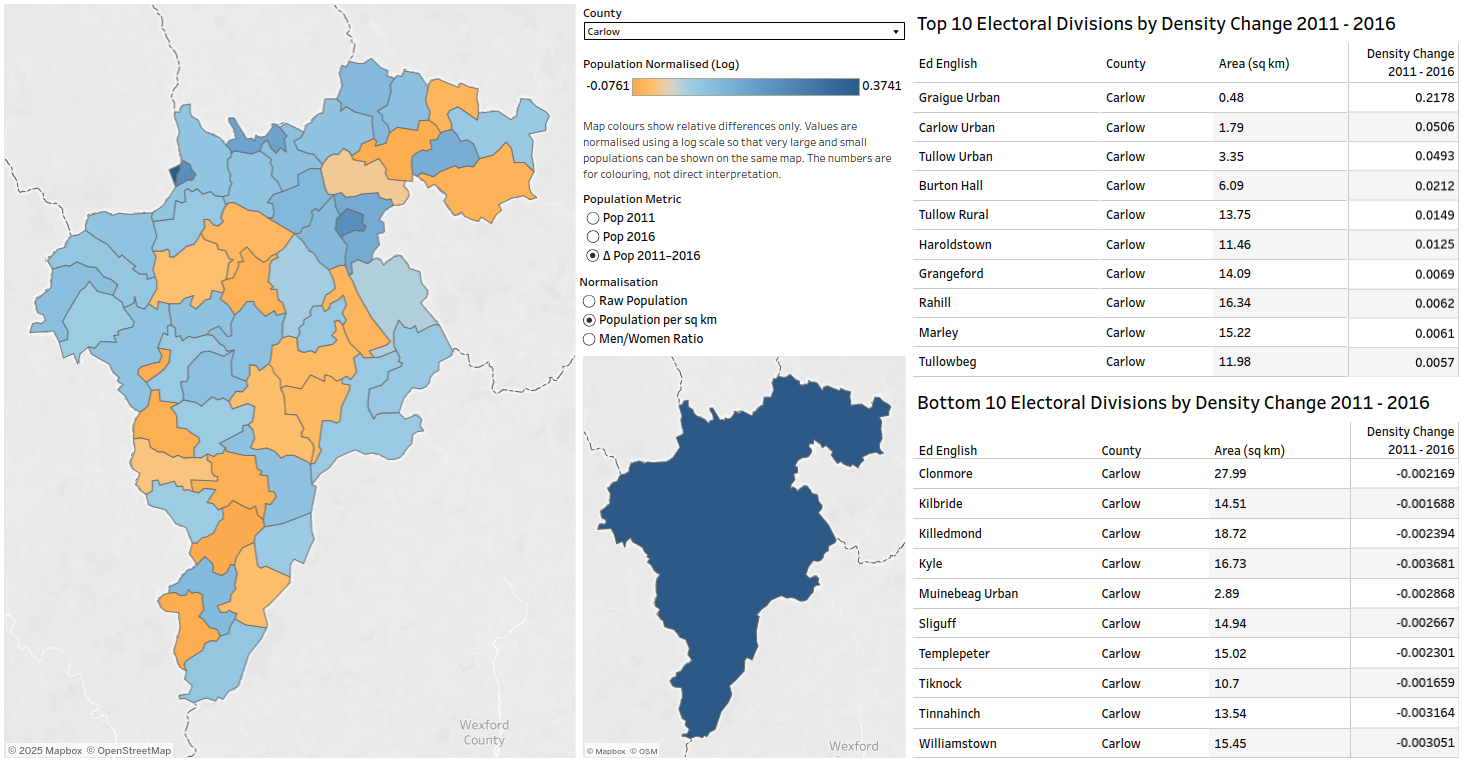
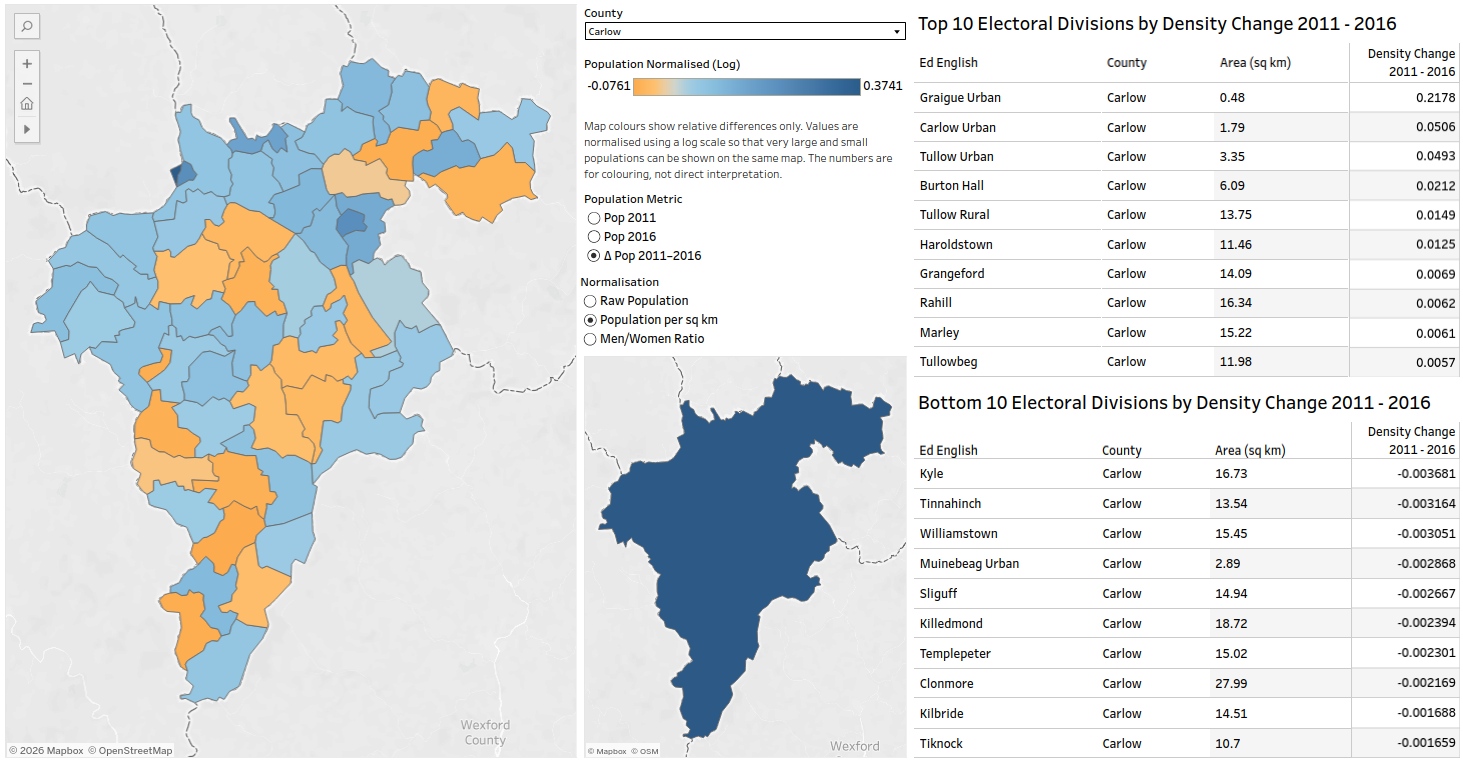
Added to Tableau page and fixed Tableau images

diff --git a/html/tableau.html b/html/tableau.html
@@ -106,13 +106,49 @@
 <div class="center-text-skills">
 	<p>I created this <a class="accent-link" href="https://public.tableau.com/app/profile/gary.carroll8040/viz/IrelandCensusPopulation20112016/Dashboard1" target="_blank">Tableau dashboard</a>
 	to visualise the population changes of electoral divisions in Ireland between the 2011 and 2016 censuses. There are three different population metrics to choose from:
-	2011 numbers, 2016 numbers, and the difference between these two. There are also three different normalisation metrics to choose from: raw population numbers, 
+	2011 numbers, 2016 numbers, and the difference between the two. There are also three different normalisation metrics to choose from: raw population numbers, 
 	population per square kilometre, and the ratio of men to women in each area. The actual differences between areas for all metrics are small, and the map colours
 	are therefore normalised to clearly show the relative differences between them. The normalisation formula used is based on the population metric selected. If the 
 	population metric is 'Δ Pop 2011-2016' then signed non-linear scaling is used. The actual Tableau formula is: <span class="center-line"><b>ATTR(SIGN([Population]) * POWER(LOG(1 + ABS([Population])), 0.4))</b></span>
 	<br>where the Population field here is the difference between the 2011 and 2016 values, set by the Population Metric parameter. This compresses large values so 
 	that extreme population changes do not dominate the visualisation. Simple logarithmic scaling is used for the other two population metric options.</p>
+	<p>The County filter allows you to select either all of Ireland or a specific country. Both maps and both tables will be updated to show data only for the selected
+		county. The following two images show exaples where different counties and population metrics are selected.
+	</p>
 </div>
+
+<div class="center-text">
+        <figure>
+        <img src="../images/tableau2.png" alt="Tableau Carlow" class="statement-img">
+    </figure>
+</div>
+
+<div class="center-text-skills">
+<p>It is no surprise that the most urban area of Carlow, Carlow Town, which is the small dark blue area in the upper left of the county has had the largest increase
+	 in population density in the county from 2011 to 2016. The decrease in density in Carlow's most rural areas is also clearly highlighed and unsurprising.<br>
+	 In the image below showing the population per square km of Mayo in 2016, the three urban areas of Castlebar, Ballina/Ardnaree and  Westport stand out clearly on
+	 the map. These are the three towns with the largest popualtion in Mayo by a significant margin, and this is reflected in the population density figures.
+</p></div>
+
+<div class="center-text">
+        <figure>
+        <img src="../images/tableau3.png" alt="Tableau M/F" class="statement-img">
+    </figure>
+</div>
+
+<div class="center-text-skills">
+<p>The below image shows the map of Ireland withn a different metric selected: the ratio of men to women in each electoral division and county. Every county has 
+	a ratio that is very close to 1. The county with the highest male to female ratio is Laois with 1.02, and the country with the lowest ratio is Dublin with 0.96 
+	which is the further value from 1 for any county. There is no clear trend when looking at the electoral divisions. Every county has a ratio that is very close to 1.
+	Hovering over individual electoral divisions or counties in the maps shows a tooltip with the name and actual numbers for that area.
+</p></div>
+
+<div class="center-text">
+        <figure>
+        <img src="../images/tableau4.png" alt="Tableau Mayo" class="statement-img">
+    </figure>
+</div>
+
 <br><br><br><br>
 <footer>
 <p class="center-align">
